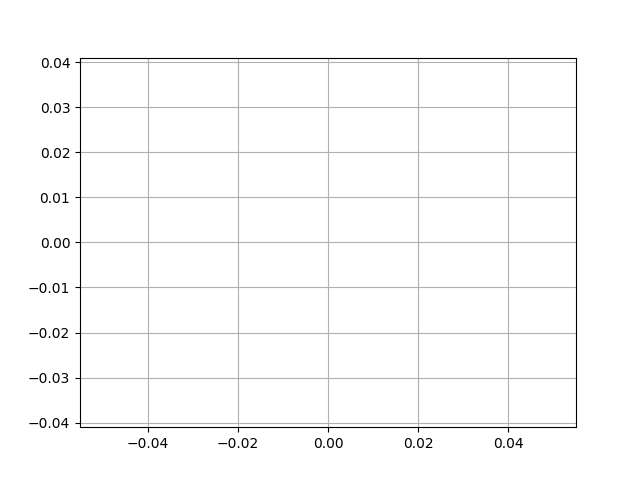
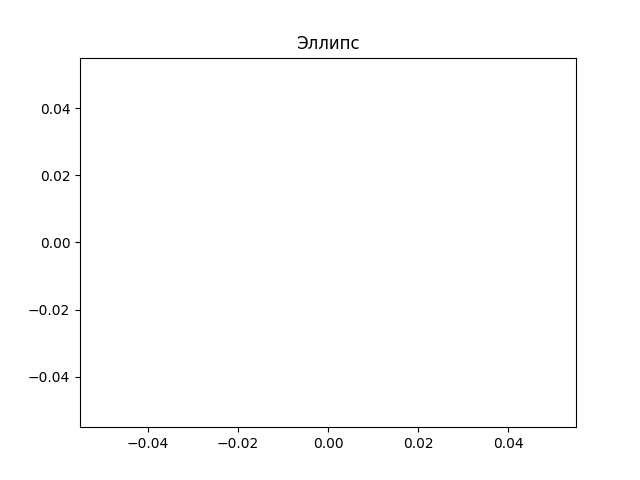
dfghn

diff --git a/project_two.py b/project_two.py
@@ -68,23 +68,16 @@ ax.set_xlim(-edge, edge)
 ax.set_ylim(-edge, edge)
 
 def animate(i):
-    ax.set_facecolor('black')
-    c=plt.Circle ((0, 0), radius= 0.07*10**8 , color='gold', alpha= .3 )
-    plt.gca ().add_artist (c)
+    plt.title('Траектория движения Земли и луны')
     zemly.set_data(X[i], Y[i])
     luna.set_data(XG[i], YG[i])
-    venera.set_data(XVenera[i], YVenera[i])
-    cometa.set_data(Xcometa[i], Ycometa[i])
-    Mercur.set_data(XMercur[i], YMercur[i])
-    trajectory2.set_data(XVenera[:i], YVenera[:i])
     trajectory.set_data(X[:i], Y[:i])
     trajectory1.set_data(XG[:i], YG[:i])
-    trajectory3.set_data(Xcometa[i], Ycometa[i])
-    trajectory4.set_data(XMercur[:i], YMercur[:i])
+ 
     
 ani = animation.FuncAnimation(fig,
                               animate,
-                              frames=250,
+                              frames=1000,
                               interval=30,
                              )
 

diff --git a/ellips.py b/ellips.py
@@ -3,7 +3,7 @@ import matplotlib.pyplot as plt
 
 def ellips(p = 10, ee = 0.5):
     
-    fi = np.arange(0, np.pi * 8, 0.01)
+    fi = np.arange(0, np.pi * 9, 0.01)
     
     r = p / (1 + (ee * np.cos(fi)))
     
@@ -11,9 +11,11 @@ def ellips(p = 10, ee = 0.5):
     y = r * np.sin(fi)
     return x, y
 
-x, y = [], []
-    
-plt.plot(x, y)
-plt.grid()
-plt.axis('equal')
+X, Y = [], []
+
+edge = 10
+plt.xlim(-edge, edge)
+plt.ylim(-edge, edge)
+plt.plot(X, Y)
+plt.title('Эллипс')
 plt.savefig('lab_6_dop_2.png')

diff --git a/Cometa.py b/Cometa.py
@@ -38,12 +38,13 @@ ax.set_xlim(-edge, edge)
 ax.set_ylim(-edge, edge)
 
 def animate(i):
+    plt.title('Астероид')
     cometa.set_data(Xcometa[i], Ycometa[i])
     trajectory3.set_data(Xcometa[i], Ycometa[i])
     
 ani = animation.FuncAnimation(fig,
                               animate,
-                              frames=1000,
+                              frames=900,
                               interval=30,
                              )
 

diff --git a/Venera_and_Mercury.py b/Venera_and_Mercury.py
@@ -48,6 +48,7 @@ def animate(i):
     Mercur.set_data(XMercur[i], YMercur[i])
     trajectory2.set_data(XVenera[:i], YVenera[:i])
     trajectory4.set_data(XMercur[:i], YMercur[:i])
+    plt.title('Траектории Меркурия и Венеры')
     
 ani = animation.FuncAnimation(fig,
                               animate,

diff --git a/project_180.py b/project_180.py
@@ -68,6 +68,7 @@ ax.set_xlim(-edge, edge)
 ax.set_ylim(-edge, edge)
 
 def animate(i):
+    plt.title('Столкновение астероида с планетой Земля')
     ax.set_facecolor('black')
     c=plt.Circle ((0, 0), radius= 0.07*10**8 , color='gold', alpha= .3 )
     plt.gca ().add_artist (c)

diff --git a/posledstvie.py b/posledstvie.py
@@ -18,6 +18,8 @@ ax.set_xlim(-edge, edge)
 ax.set_ylim(-edge, edge)
 
 def animate(i):
+    plt.title('Последствие столкновения космических объектов')
+    plt.xlabel('')
     ball.set_data(circle_move(R=1, k=1, time=i))
     
 ani = animation.FuncAnimation(fig,

diff --git a/test.py b/test.py
@@ -1,0 +1,9 @@
+import matplotlib.pyplot as plt
+
+plt.plot([3, 4], [40, 1], color='g', label='luchte')
+plt.xlabel('coord: x')
+plt.ylabel('coord: y')
+plt.legend()
+plt.title('Base')
+plt.grid()
+plt.savefig('pib.png')
